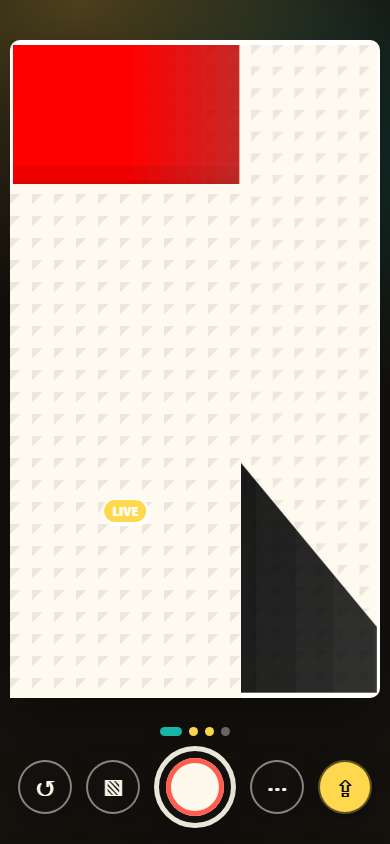
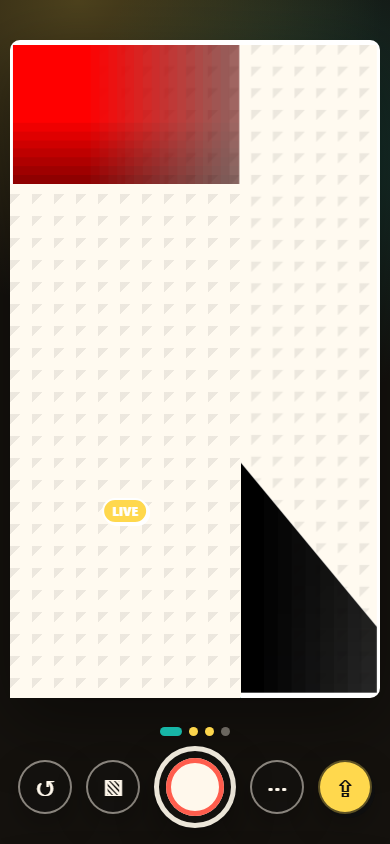
Fix uploaded photos and custom layout deletion

Changed region(s): [[0.0308, 0.0308, 0.6154, 0.2156], [0.6154, 0.5545, 0.8308, 0.8318]]

diff --git a/src/main.tsx b/src/main.tsx
@@ -113,7 +113,8 @@ type PhotoDragState = {
   offsetX: number
   offsetY: number
   scale: number
-  rect: DOMRect
+  frameWidth: number
+  frameHeight: number
   startDistance?: number
 }
 
@@ -852,6 +853,23 @@ function App() {
     clearExport()
   }
 
+  function deleteCustomLayout(layoutId: string) {
+    const targetLayout = customLayouts.find((item) => item.id === layoutId)
+    if (!targetLayout) {
+      return
+    }
+
+    setCustomLayouts((current) => current.filter((item) => item.id !== layoutId))
+    if (layout.id === layoutId) {
+      const fallbackLayout = layouts[0]
+      changeLayout(fallbackLayout)
+      setStatus(`${targetLayout.name} layout deleted. ${fallbackLayout.name} layout is active.`)
+    } else {
+      setStatus(`${targetLayout.name} layout deleted.`)
+      clearExport()
+    }
+  }
+
   function addSticker(kind: StickerKind) {
     const panel = layout.panels.find((item) => item.id === activePanelId) ?? layout.panels[0]
     const bounds = panelBounds(panel)
@@ -1098,7 +1116,7 @@ function App() {
       offsetX: shot.offsetX,
       offsetY: shot.offsetY,
       scale: shot.scale,
-      rect,
+      ...panelPhotoFrameSize(panel, rect),
     })
     setStatus(`Panel ${layout.panels.findIndex((item) => item.id === panel.id) + 1} photo selected. Drag or pinch to adjust.`)
   }
@@ -1128,7 +1146,7 @@ function App() {
       offsetX: shot.offsetX,
       offsetY: shot.offsetY,
       scale: shot.scale,
-      rect,
+      ...panelPhotoFrameSize(firstPanel, rect),
       startDistance: touchDistance(event.touches),
     })
   }
@@ -1138,8 +1156,8 @@ function App() {
       return
     }
 
-    const dx = (clientX - photoDragState.startX) / photoDragState.rect.width
-    const dy = (clientY - photoDragState.startY) / photoDragState.rect.height
+    const dx = (clientX - photoDragState.startX) / photoDragState.frameWidth
+    const dy = (clientY - photoDragState.startY) / photoDragState.frameHeight
     updateShotTransform(photoDragState.panelId, {
       offsetX: photoDragState.offsetX + dx,
       offsetY: photoDragState.offsetY + dy,
@@ -1350,13 +1368,15 @@ function App() {
                 <img
                   src={shots[panel.id].dataUrl}
                   alt={`Panel ${index + 1}`}
-                  style={shotImageStyle(shots[panel.id])}
+                  style={shotImageStyle(panel, shots[panel.id], settings.fit)}
                   data-shot-scale={shots[panel.id].scale.toFixed(2)}
                   data-shot-x={shots[panel.id].offsetX.toFixed(2)}
                   data-shot-y={shots[panel.id].offsetY.toFixed(2)}
                 />
               )}
-              {panel.id === activePanelId && stream && !shots[panel.id] && <LiveVideo stream={stream} />}
+              {panel.id === activePanelId && stream && !shots[panel.id] && (
+                <LiveVideo stream={stream} panel={panel} fit={settings.fit} />
+              )}
               {panel.id === activePanelId && !shots[panel.id] && <span className="panel-chip">LIVE</span>}
             </button>
           ))}
@@ -1425,7 +1445,13 @@ function App() {
         onTab={setDrawerTab}
       >
         {drawerTab === 'layout' && (
-          <LayoutPanel layout={layout} layouts={allLayouts} onLayout={changeLayout} onCreate={() => setDrawerTab('create')} />
+          <LayoutPanel
+            layout={layout}
+            layouts={allLayouts}
+            onLayout={changeLayout}
+            onCreate={() => setDrawerTab('create')}
+            onDeleteCustomLayout={deleteCustomLayout}
+          />
         )}
         {drawerTab === 'create' && (
           <CreatorPanel
@@ -1462,7 +1488,7 @@ function App() {
   )
 }
 
-function LiveVideo({ stream }: { stream: MediaStream }) {
+function LiveVideo({ stream, panel, fit }: { stream: MediaStream; panel: Panel; fit: PanelFit }) {
   const ref = useRef<HTMLVideoElement>(null)
 
   useEffect(() => {
@@ -1474,7 +1500,7 @@ function LiveVideo({ stream }: { stream: MediaStream }) {
     }
   }, [stream])
 
-  return <video ref={ref} className="live-frame" autoPlay muted playsInline aria-hidden="true" />
+  return <video ref={ref} className="live-frame" style={photoFrameStyle(panel, fit)} autoPlay muted playsInline aria-hidden="true" />
 }
 
 function Drawer({
@@ -1558,29 +1584,42 @@ function LayoutPanel({
   layouts,
   onLayout,
   onCreate,
+  onDeleteCustomLayout,
 }: {
   layout: Layout
   layouts: Layout[]
   onLayout: (layout: Layout) => void
   onCreate: () => void
+  onDeleteCustomLayout: (layoutId: string) => void
 }) {
   return (
     <div className="drawer-grid">
       {layouts.map((option) => (
-        <button
-          key={option.id}
-          className={`layout-card ${layout.id === option.id ? 'active' : ''}`}
-          type="button"
-          onClick={() => onLayout(option)}
-        >
-          <span className="layout-mini">
-            {option.panels.map((panel) => (
-              <i key={panel.id} style={panelStyle(panel)} />
-            ))}
-          </span>
-          <strong>{option.name}</strong>
-          {option.custom && <em>saved</em>}
-        </button>
+        <div key={option.id} className="layout-card-shell">
+          <button
+            className={`layout-card ${layout.id === option.id ? 'active' : ''} ${option.custom ? 'has-delete' : ''}`}
+            type="button"
+            onClick={() => onLayout(option)}
+          >
+            <span className="layout-mini">
+              {option.panels.map((panel) => (
+                <i key={panel.id} style={panelStyle(panel)} />
+              ))}
+            </span>
+            <strong>{option.name}</strong>
+            {option.custom && <em>saved</em>}
+          </button>
+          {option.custom && (
+            <button
+              className="layout-delete"
+              type="button"
+              aria-label={`Delete ${option.name} layout`}
+              onClick={() => onDeleteCustomLayout(option.id)}
+            >
+              ⌫
+            </button>
+          )}
+        </div>
       ))}
       <button className="layout-card create-card" type="button" onClick={onCreate}>
         <span className="layout-mini creator-mini">
@@ -2501,10 +2540,34 @@ function panelStyle(panel: Panel) {
   }
 }
 
-function shotImageStyle(shot: Shot) {
+function shotImageStyle(panel: Panel, shot: Shot, fit: PanelFit) {
   return {
+    ...photoFrameStyle(panel, fit),
     transform: `translate(${shot.offsetX * 100}%, ${shot.offsetY * 100}%) scale(${shot.scale})`,
   } as React.CSSProperties
+}
+
+function photoFrameStyle(panel: Panel, fit: PanelFit) {
+  const bounds = panelPhotoFrameBounds(panel)
+  return {
+    left: `${bounds.x * 100}%`,
+    top: `${bounds.y * 100}%`,
+    width: `${bounds.w * 100}%`,
+    height: `${bounds.h * 100}%`,
+    objectFit: fit,
+  } as React.CSSProperties
+}
+
+function panelPhotoFrameBounds(panel: Panel) {
+  return panel.points ? panelBounds(panel) : { x: 0, y: 0, w: 1, h: 1 }
+}
+
+function panelPhotoFrameSize(panel: Panel, stripRect: DOMRect) {
+  const bounds = panelBounds(panel)
+  return {
+    frameWidth: Math.max(1, bounds.w * stripRect.width),
+    frameHeight: Math.max(1, bounds.h * stripRect.height),
+  }
 }
 
 function pointsToClipPath(points: Array<[number, number]>) {

diff --git a/src/style.css b/src/style.css
@@ -287,6 +287,9 @@ select:focus-visible,
 }
 
 .live-panel img {
+  position: absolute;
+  left: 0;
+  top: 0;
   width: 100%;
   height: 100%;
   display: block;
@@ -297,7 +300,8 @@ select:focus-visible,
 
 .live-frame {
   position: absolute;
-  inset: 0;
+  left: 0;
+  top: 0;
   z-index: 2;
   width: 100%;
   height: 100%;
@@ -534,6 +538,17 @@ select:focus-visible,
   gap: 10px;
 }
 
+.layout-card-shell {
+  position: relative;
+  min-width: 0;
+  display: grid;
+}
+
+.layout-card-shell .layout-card {
+  width: 100%;
+  height: 100%;
+}
+
 .layout-card {
   min-height: 112px;
   display: grid;
@@ -545,6 +560,10 @@ select:focus-visible,
   border-radius: 18px;
   background: rgba(255, 255, 255, 0.7);
   text-align: left;
+}
+
+.layout-card.has-delete {
+  padding-right: 42px;
 }
 
 .layout-card.active {
@@ -561,6 +580,25 @@ select:focus-visible,
   font-size: 11px;
   font-style: normal;
   font-weight: 900;
+}
+
+.layout-delete {
+  position: absolute;
+  top: 8px;
+  right: 8px;
+  z-index: 2;
+  width: 32px;
+  height: 32px;
+  display: grid;
+  place-items: center;
+  border: 2px solid #fff8ec;
+  border-radius: 999px;
+  color: #fff8ec;
+  background: #b3261e;
+  box-shadow: 0 8px 18px rgba(0, 0, 0, 0.22);
+  font-size: 15px;
+  font-weight: 1000;
+  line-height: 1;
 }
 
 .layout-mini {

diff --git a/README.md b/README.md
@@ -47,10 +47,11 @@ npm run dev
 ```bash
 npm run build
 npm run smoke
+npm run smoke:photos
 npm run smoke:camera
 ```
 
-The smoke checks exercise the mobile editor flow, inline and repeat sticker text editing, drag/scale/rotate gestures, drag-to-trash deletion, diagonal custom layouts, share fallback, manifest loading, and fake-camera capture through the final panel.
+The smoke checks exercise the mobile editor flow, inline and repeat sticker text editing, drag/scale/rotate gestures, landscape photo positioning, drag-to-trash deletion, diagonal custom layouts, custom layout deletion, share fallback, manifest loading, and fake-camera capture through the final panel.
 
 ## Deploy
 